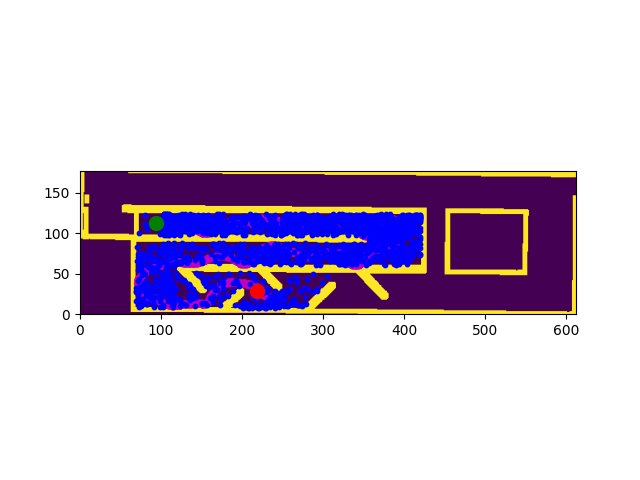
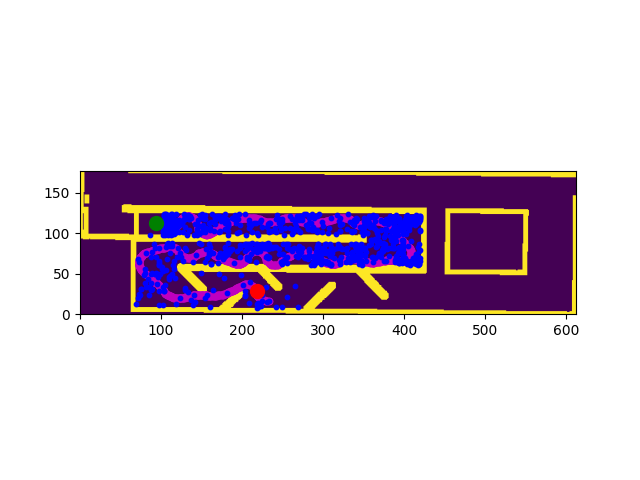
RRT finished

Changed region(s): [[0.1875, 0.4375, 0.6875, 0.6562]]

diff --git a/hw2- clean/py_KinoRRT.py b/hw2- clean/py_KinoRRT.py
@@ -42,7 +42,6 @@ class KINORRT(object):
                 if self.tree.isConfExists(x_new):
                     idx = self.tree.getIndexForState(x_new)
                     if self.tree.vertices[x_near_idx].cost + edge_cost < self.tree.vertices[idx].cost:
-                        print(f'found better path to {x_new}')
                         eid = idx
                 if eid == -1:
                     eid = self.tree.AddVertex(x_new)
@@ -197,11 +196,19 @@ def main():
     goal = converter.meter2pixel([6.22, -4.22])
     print(start)
     print(goal)
-    kinorrt_planner = KINORRT(env_map=inflated_map, max_step_size=20, max_itr=10000, p_bias=0.05,converter=converter )
-    path, path_idx, cost = kinorrt_planner.find_path(start, goal)
+    target_cost = 39.5
+    cost = float('inf')
+    while cost > target_cost:
+        kinorrt_planner = KINORRT(env_map=inflated_map, max_step_size=20, max_itr=10000, p_bias=0.05,converter=converter )
+        print(f'cost: {cost}, retrying...')
+        path, path_idx, cost = kinorrt_planner.find_path(start, goal)
+        if cost is None:
+            cost = float('inf')
     print(f'cost: {cost}')
     plotter = Plotter(inflated_map=inflated_map)
     plotter.draw_tree(kinorrt_planner.tree, start, goal, path, path_idx)
+    path_meters = converter.pathindex2pathmeter(path)
+    np.save('path_meters.npy', path_meters)
     
 
 

diff --git a/PurePursuit.py b/PurePursuit.py
@@ -110,7 +110,9 @@ def main():
     MIN_SPEED = car_consts.min_linear_velocity  # minimum speed [m/s]
     MAX_ACCEL = 1.0  # maximum accel [m/ss]
 
-    path = np.load('path_maze_meter_sim.npy')
+    path = np.load('path_meters.npy')
+    # Reverse the path by flipping the order of points
+    path = path[::-1]
     trajectory = Trajectory(dl=0.1, path =path, TARGET_SPEED=target_speed)
     state = State(x=trajectory.cx[0], y=trajectory.cy[0], yaw=trajectory.cyaw[0], v=0.0)
     lastIndex = len(trajectory.cx) - 1
